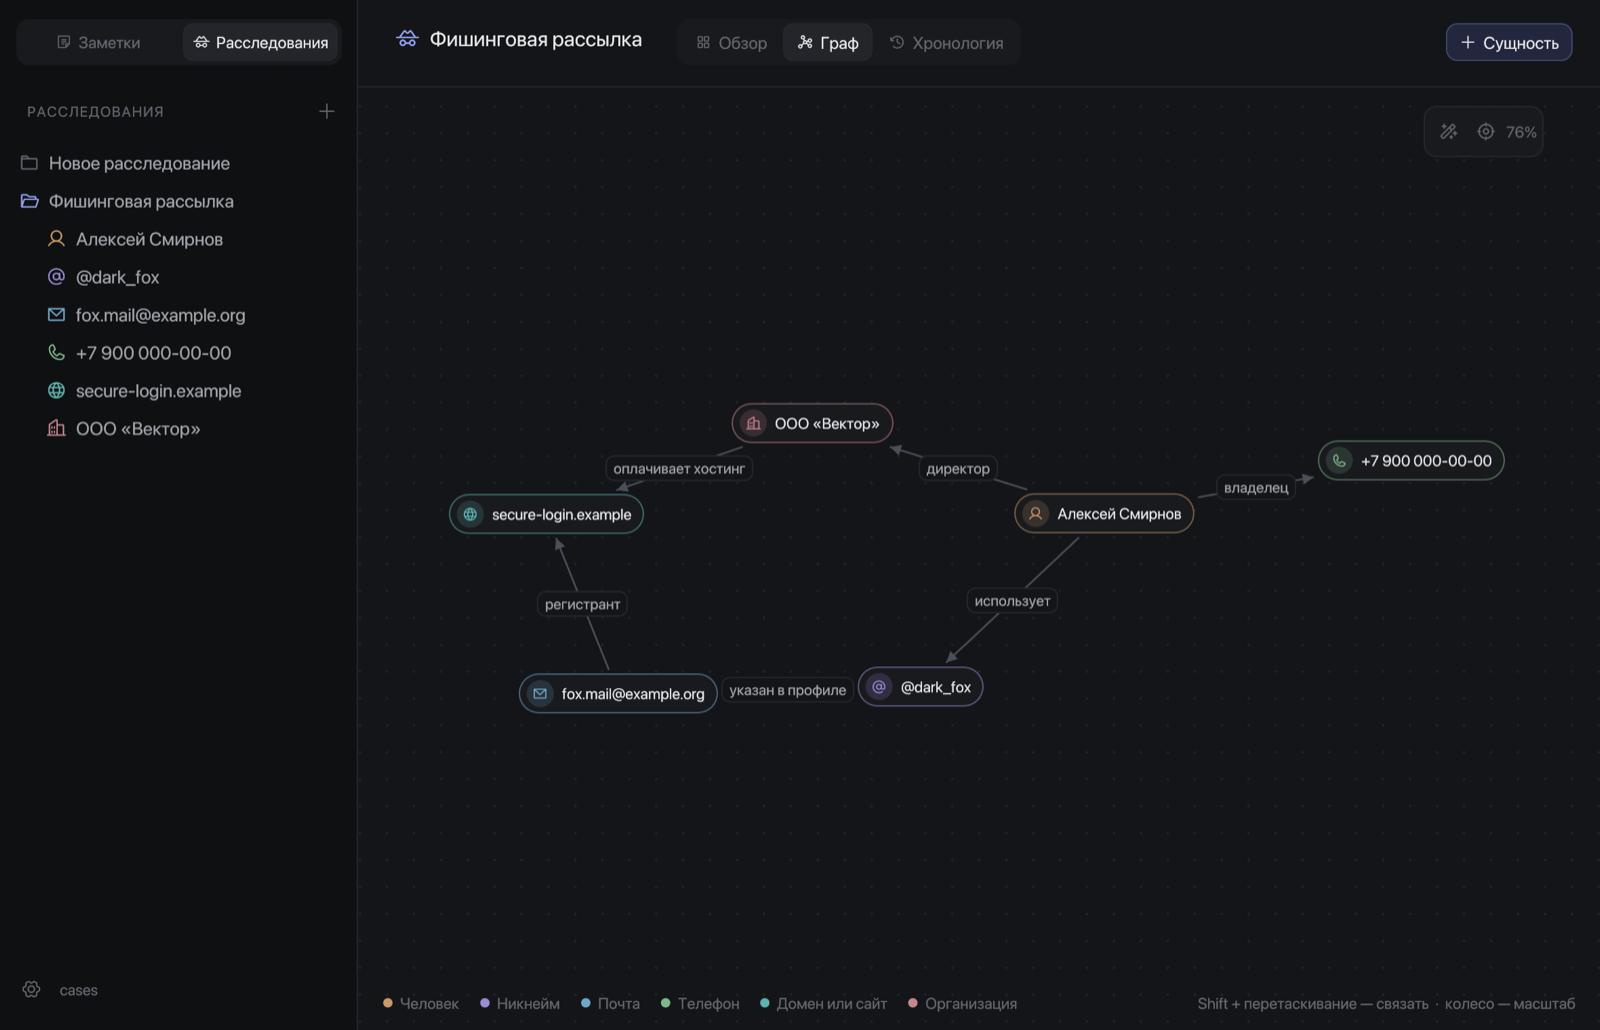
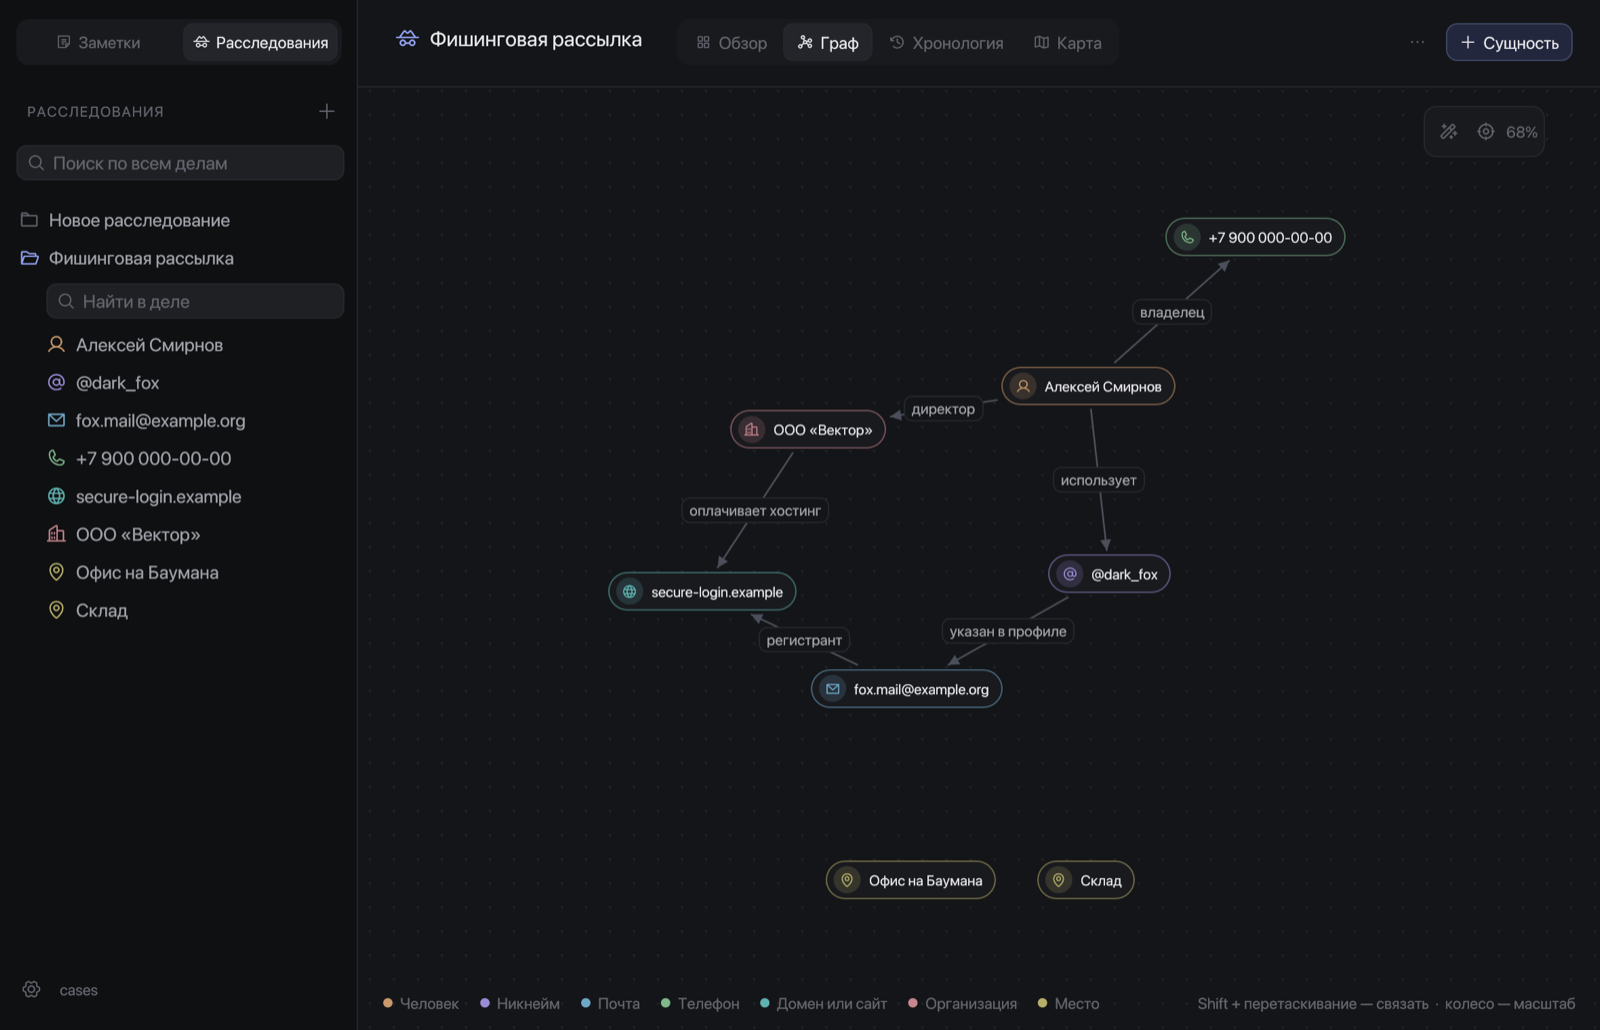
Autosearch: found profiles become linked nodes on the graph, placed in free space; unlinked nodes no longer fly off

diff --git a/src/inv_ui.rs b/src/inv_ui.rs
@@ -1500,11 +1500,19 @@ fn force_layout(c: &mut Case) {
         .filter(|(i, j)| i != j)
         .collect();
     let k = 170.0f32;
+    let mut linked = vec![false; n];
+    for &(i, j) in &edges {
+        linked[i] = true;
+        linked[j] = true;
+    }
     for step in 0..400 {
         let t = 30.0 * (1.0 - step as f32 / 400.0) + 0.5;
         let mut d = vec![Vec2::ZERO; n];
         for i in 0..n {
             for j in (i + 1)..n {
+                if !linked[i] || !linked[j] {
+                    continue;
+                }
                 let mut v = p[i] - p[j];
                 if v.length() < 1.0 {
                     v = Vec2::new((i as f32).sin() + 0.5, (j as f32).cos() + 0.5);
@@ -1521,12 +1529,34 @@ fn force_layout(c: &mut Case) {
             d[j] += f;
         }
         for i in 0..n {
+            // Nodes without links are only pushed away by the others; pull them back harder
+            // so they stay near the group instead of flying off-screen.
+            if !linked[i] {
+                continue; // placed in a row afterwards
+            }
             d[i] -= p[i] * 0.02;
             let len = d[i].length();
             if len > 0.0 {
                 p[i] += d[i] / len * len.min(t);
             }
         }
+    }
+    // Nodes without links: a tidy row under the group.
+    let (mut lo, mut hi) = (Vec2::splat(f32::MAX), Vec2::splat(f32::MIN));
+    for i in (0..n).filter(|&i| linked[i]) {
+        lo = lo.min(p[i]);
+        hi = hi.max(p[i]);
+    }
+    if lo.x > hi.x {
+        (lo, hi) = (Vec2::ZERO, Vec2::ZERO);
+    }
+    let lonely: Vec<usize> = (0..n).filter(|&i| !linked[i]).collect();
+    let per_row = 4usize;
+    for (k2, &i) in lonely.iter().enumerate() {
+        let (row, col) = (k2 / per_row, k2 % per_row);
+        let in_row = (lonely.len() - row * per_row).min(per_row) as f32;
+        let x = (lo.x + hi.x) / 2.0 + (col as f32 - (in_row - 1.0) / 2.0) * 190.0;
+        p[i] = Vec2::new(x / 1.3, (hi.y + 160.0 + row as f32 * 90.0) / 0.85);
     }
     // Wider than tall, to suit the window.
     for (nm, v) in names.iter().zip(p) {
@@ -1542,15 +1572,28 @@ impl Inv {
         use crate::autosearch::{Add, Finding};
         let c = self.case.as_ref().unwrap();
         let i = c.find(entity).unwrap();
-        let f = |check, text: &str, url: &str| Finding { check, text: text.into(), add: Some(Add::Source { url: url.into(), note: String::new() }) };
+        let f = |check: &'static str, text: &str, url: &str| Finding { check, text: text.into(), add: Some(Add::Profile { site: check.into(), url: url.into() }) };
         let list = vec![
-            (f("GitHub", "Найден профиль: https://github.com/dark_fox", "https://github.com/dark_fox"), true),
+            (f("GitHub", "Найден профиль: https://github.com/dark_fox", "https://github.com/dark_fox"), false),
             (f("Telegram", "Найден профиль: https://t.me/dark_fox", "https://t.me/dark_fox"), false),
             (f("Reddit", "Найден профиль: https://www.reddit.com/user/dark_fox", "https://www.reddit.com/user/dark_fox"), false),
             (f("Хабр", "Найден профиль: https://habr.com/ru/users/dark_fox/", "https://habr.com/ru/users/dark_fox/"), false),
         ];
         self.auto.insert((c.dir.clone(), entity.into()), (true, list));
         self.view = View::Entity(i);
+    }
+
+    #[cfg(test)]
+    pub fn fake_auto_added(&mut self, entity: &str) {
+        self.fake_auto(entity);
+        let c = self.case.as_ref().unwrap();
+        let (i, key) = (c.find(entity).unwrap(), (c.dir.clone(), entity.to_string()));
+        if c.pos.is_empty() {
+            let c = self.case.as_mut().unwrap();
+            force_layout(c);
+        }
+        self.apply_auto(i, &key, &[0, 1, 2, 3]);
+        self.view = View::Graph;
     }
 
     #[cfg(test)]
@@ -2001,18 +2044,54 @@ impl Inv {
                     Some(_) => {}
                     None => e.fields.push((key, value)),
                 },
-                Add::Entity { kind, name, relation } => new_entities.push((kind, name, relation)),
+                Add::Entity { kind, name, relation } => new_entities.push((kind, name, relation, None)),
+                Add::Profile { site, url } => {
+                    let name = crate::autosearch::profile_name(&site, &url);
+                    new_entities.push((Kind::Nick, name, format!("профиль на {site}"), Some((site, url))));
+                }
             }
         }
         c.touch(Some(i));
         let from = c.entities[i].name.clone();
-        for (kind, name, relation) in new_entities {
+        // New nodes go on a ring around the card they came from, so they show up next to it on the graph.
+        let origin = c.pos.get(&from).copied().unwrap_or([0.0, 0.0]);
+        let total = new_entities.len().max(1);
+        let ring = 170.0 + 6.0 * total as f32;
+        let start = c.pos.len() as f32 * 0.7;
+        for (n, (kind, name, relation, profile)) in new_entities.into_iter().enumerate() {
             if c.find(&name).is_none() {
                 let j = c.add_entity(kind);
                 if let Err(e) = c.rename_entity(j, &name) {
                     self.error = Some(e);
                     continue;
                 }
+                let j = c.find(&name).unwrap();
+                if let Some((site, url)) = &profile {
+                    let e = &mut c.entities[j];
+                    e.fields = vec![("Платформа".into(), site.clone()), ("Профиль".into(), url.clone())];
+                    e.sources.push(Source { url: url.clone(), date: inv::today(), reliability: Reliability::Likely, note: "найдено автопроверкой".into() });
+                    c.touch(Some(j));
+                }
+                // Try spots around the source and take the one farthest from every other node.
+                let _ = (start, n, total);
+                let mut best = (f32::MIN, [origin[0] + ring, origin[1]]);
+                for r in [ring, ring * 1.5, ring * 2.0] {
+                    for k in 0..24 {
+                        let a = k as f32 / 24.0 * std::f32::consts::TAU;
+                        let p = [origin[0] + r * 1.3 * a.cos(), origin[1] + r * 0.8 * a.sin()];
+                        let clear = c.pos.values().map(|q| ((p[0] - q[0]) / 1.8).hypot(p[1] - q[1])).fold(f32::MAX, f32::min);
+                        let score = clear.min(150.0) - r * 0.05;
+                        if score > best.0 {
+                            best = (score, p);
+                        }
+                    }
+                    if best.0 >= 140.0 {
+                        break;
+                    }
+                }
+                c.pos.insert(name.clone(), best.1);
+                c.touch_pos();
+                self.fit_next = true;
             }
             if let Some(src) = c.find(&from) {
                 if !c.entities[src].links.iter().any(|l| l.target == name) {

diff --git a/src/autosearch.rs b/src/autosearch.rs
@@ -15,6 +15,19 @@ pub enum Add {
     Field { key: String, value: String },
     /// Something new: becomes a linked entity.
     Entity { kind: Kind, name: String, relation: String },
+    /// An account on a site: becomes a linked nickname node with the link as its source.
+    Profile { site: String, url: String },
+}
+
+/// Node name for a found account: "handle (Site)".
+pub fn profile_name(site: &str, url: &str) -> String {
+    let u = url.trim_end_matches('/');
+    let h = match u.split_once("?id=") {
+        Some((_, id)) => id,
+        None => u.rsplit('/').next().unwrap_or(u).split(['?', '#']).next().unwrap_or(u),
+    };
+    let h = h.trim_start_matches('@').trim_start_matches('~');
+    format!("{} ({site})", if h.is_empty() { url } else { h })
 }
 
 #[derive(Clone, Debug)]
@@ -161,7 +174,7 @@ fn check_site(s: &Site, nick: &str) -> Option<Finding> {
     found.then(|| Finding {
         check: s.name,
         text: format!("Найден профиль: {profile}"),
-        add: Some(Add::Source { url: profile, note: format!("профиль на {} (автопроверка)", s.name) }),
+        add: Some(Add::Profile { site: s.name.into(), url: profile }),
     })
 }
 
@@ -176,7 +189,7 @@ fn gravatar(email: &str) -> Vec<Finding> {
     let mut out = vec![Finding {
         check: "Gravatar",
         text: format!("Есть профиль Gravatar: {}", e["profileUrl"].as_str().unwrap_or("")),
-        add: e["profileUrl"].as_str().map(|u| Add::Source { url: u.into(), note: "профиль Gravatar (автопроверка)".into() }),
+        add: e["profileUrl"].as_str().map(|u| Add::Profile { site: "Gravatar".into(), url: u.into() }),
     }];
     if let Some(n) = e["displayName"].as_str().filter(|s| !s.is_empty()) {
         out.push(Finding { check: "Gravatar", text: format!("Имя в профиле: {n}"), add: Some(Add::Entity { kind: Kind::Person, name: n.into(), relation: "имя в Gravatar".into() }) });
@@ -189,7 +202,7 @@ fn gravatar(email: &str) -> Vec<Finding> {
     }
     for a in e["accounts"].as_array().into_iter().flatten() {
         if let Some(u) = a["url"].as_str() {
-            out.push(Finding { check: "Gravatar", text: format!("Привязан аккаунт: {u}"), add: Some(Add::Source { url: u.into(), note: "аккаунт из Gravatar (автопроверка)".into() }) });
+            out.push(Finding { check: "Gravatar", text: format!("Привязан аккаунт: {u}"), add: Some(Add::Profile { site: site_of(u), url: u.into() }) });
         }
     }
     out
@@ -206,6 +219,11 @@ fn mail_domain(dom: &str) -> Vec<Finding> {
         out.push(Finding { check: "Почтовый домен", text: format!("Личный или корпоративный домен: {dom}"), add: Some(Add::Entity { kind: Kind::Domain, name: dom.into(), relation: "домен почты".into() }) });
     }
     out
+}
+
+/// "https://www.linkedin.com/in/x" → "linkedin.com".
+fn site_of(url: &str) -> String {
+    url.split("://").nth(1).unwrap_or(url).split('/').next().unwrap_or(url).trim_start_matches("www.").to_string()
 }
 
 // ------------------------------------------------------------------ domains
@@ -369,6 +387,14 @@ fn ip_info(ip: &str) -> Vec<Finding> {
 #[cfg(test)]
 mod tests {
     use super::*;
+
+    #[test]
+    fn profile_names() {
+        assert_eq!(profile_name("GitHub", "https://github.com/dark_fox"), "dark_fox (GitHub)");
+        assert_eq!(profile_name("Хабр", "https://habr.com/ru/users/fox/"), "fox (Хабр)");
+        assert_eq!(profile_name("Lichess", "https://lichess.org/@/fox"), "fox (Lichess)");
+        assert_eq!(profile_name("Hacker News", "https://news.ycombinator.com/user?id=fox"), "fox (Hacker News)");
+    }
 
     #[test]
     fn phone_parsing() {

diff --git a/src/shots.rs b/src/shots.rs
@@ -144,6 +144,7 @@ fn shots() {
     shoot("9-quick", mk(Mode::Notes), |a| a.quick = Some(crate::Quick { query: "и".into(), sel: 0, focus: false }));
     shoot("10-focus", mk(Mode::Notes), |a| a.focus_mode = true);
     shoot("11-map", mk(Mode::Investigations), |a| a.inv.view = inv_ui::View::Map);
+    shoot("15-auto-graph", mk(Mode::Investigations), |a| a.inv.fake_auto_added("@dark_fox"));
     shoot("14-auto", mk(Mode::Investigations), |a| a.inv.fake_auto("@dark_fox"));
     shoot("13-password", mk(Mode::Investigations), |a| a.inv.open_encrypt());
     shoot("12-extract", mk(Mode::Investigations), |a| a.inv.open_extract("Пишите на fox.mail@example.org или +7 (900) 123-45-67, сайт https://secure-login.example/x, @dark_fox, сервер 185.22.10.7"));

diff --git a/README.md b/README.md
@@ -70,7 +70,7 @@
 - **Карта.** Места с координатами — точки на карте OpenStreetMap. Координаты можно найти по адресу прямо в карточке.
 - **Шифрование паролем.** Карточки, заметки и приложенные файлы шифруются (XChaCha20-Poly1305, ключ из пароля через Argon2id). Имена сущностей на диске тоже скрыты. Пароль восстановить нельзя.
 - **Сущности из текста.** Вставьте переписку или страницу — найдутся почты, телефоны, домены, IP, @никнеймы и криптокошельки, их можно добавить в дело одним нажатием.
-- **Автопроверка.** Одна кнопка в карточке — и приложение само проверит сущность по открытым источникам, а находки добавятся в дело одним нажатием. Можно проверить сразу всё дело.
+- **Автопроверка.** Одна кнопка в карточке — и приложение само проверит сущность по открытым источникам, а находки добавятся в дело одним нажатием. Найденные профили и новые сущности сразу появляются на графе, связанные с исходной карточкой. Можно проверить сразу всё дело.
   - никнейм — есть ли профиль на GitHub, GitLab, Reddit, Telegram, Keybase, Хабре, Pikabu, Steam, Docker Hub и ещё 7 сайтах;
   - почта — профиль Gravatar (имя, никнейм, место, привязанные аккаунты) и почтовые серверы домена;
   - домен — DNS (IP, NS, MX, TXT), регистрация и регистратор (RDAP), поддомены из сертификатов, первая копия в веб-архиве;
